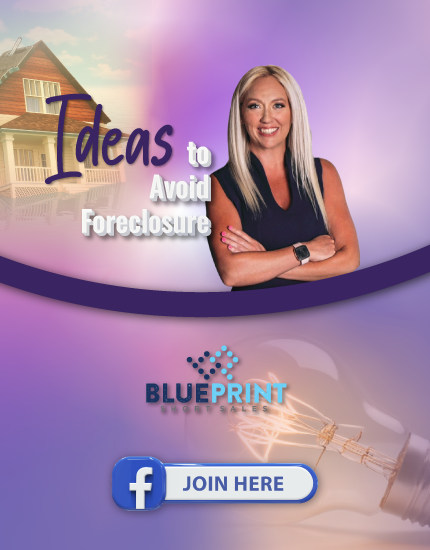
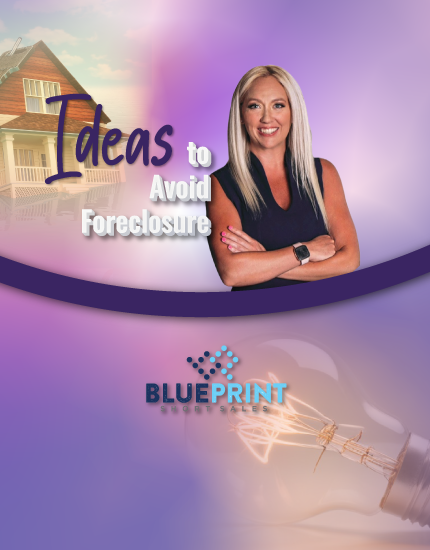
Update File

Changed region(s): [[0.2419, 0.8036, 0.7558, 0.9582]]

diff --git a/nav/homeowner/join/index.html b/nav/homeowner/join/index.html
@@ -13979,8 +13979,8 @@
 
         .link-button {
           position: absolute;
-          right: 50%;
-          top: 90%;
+          right: 20%;
+          top: 80%;
           width: 240px;
         }
 
